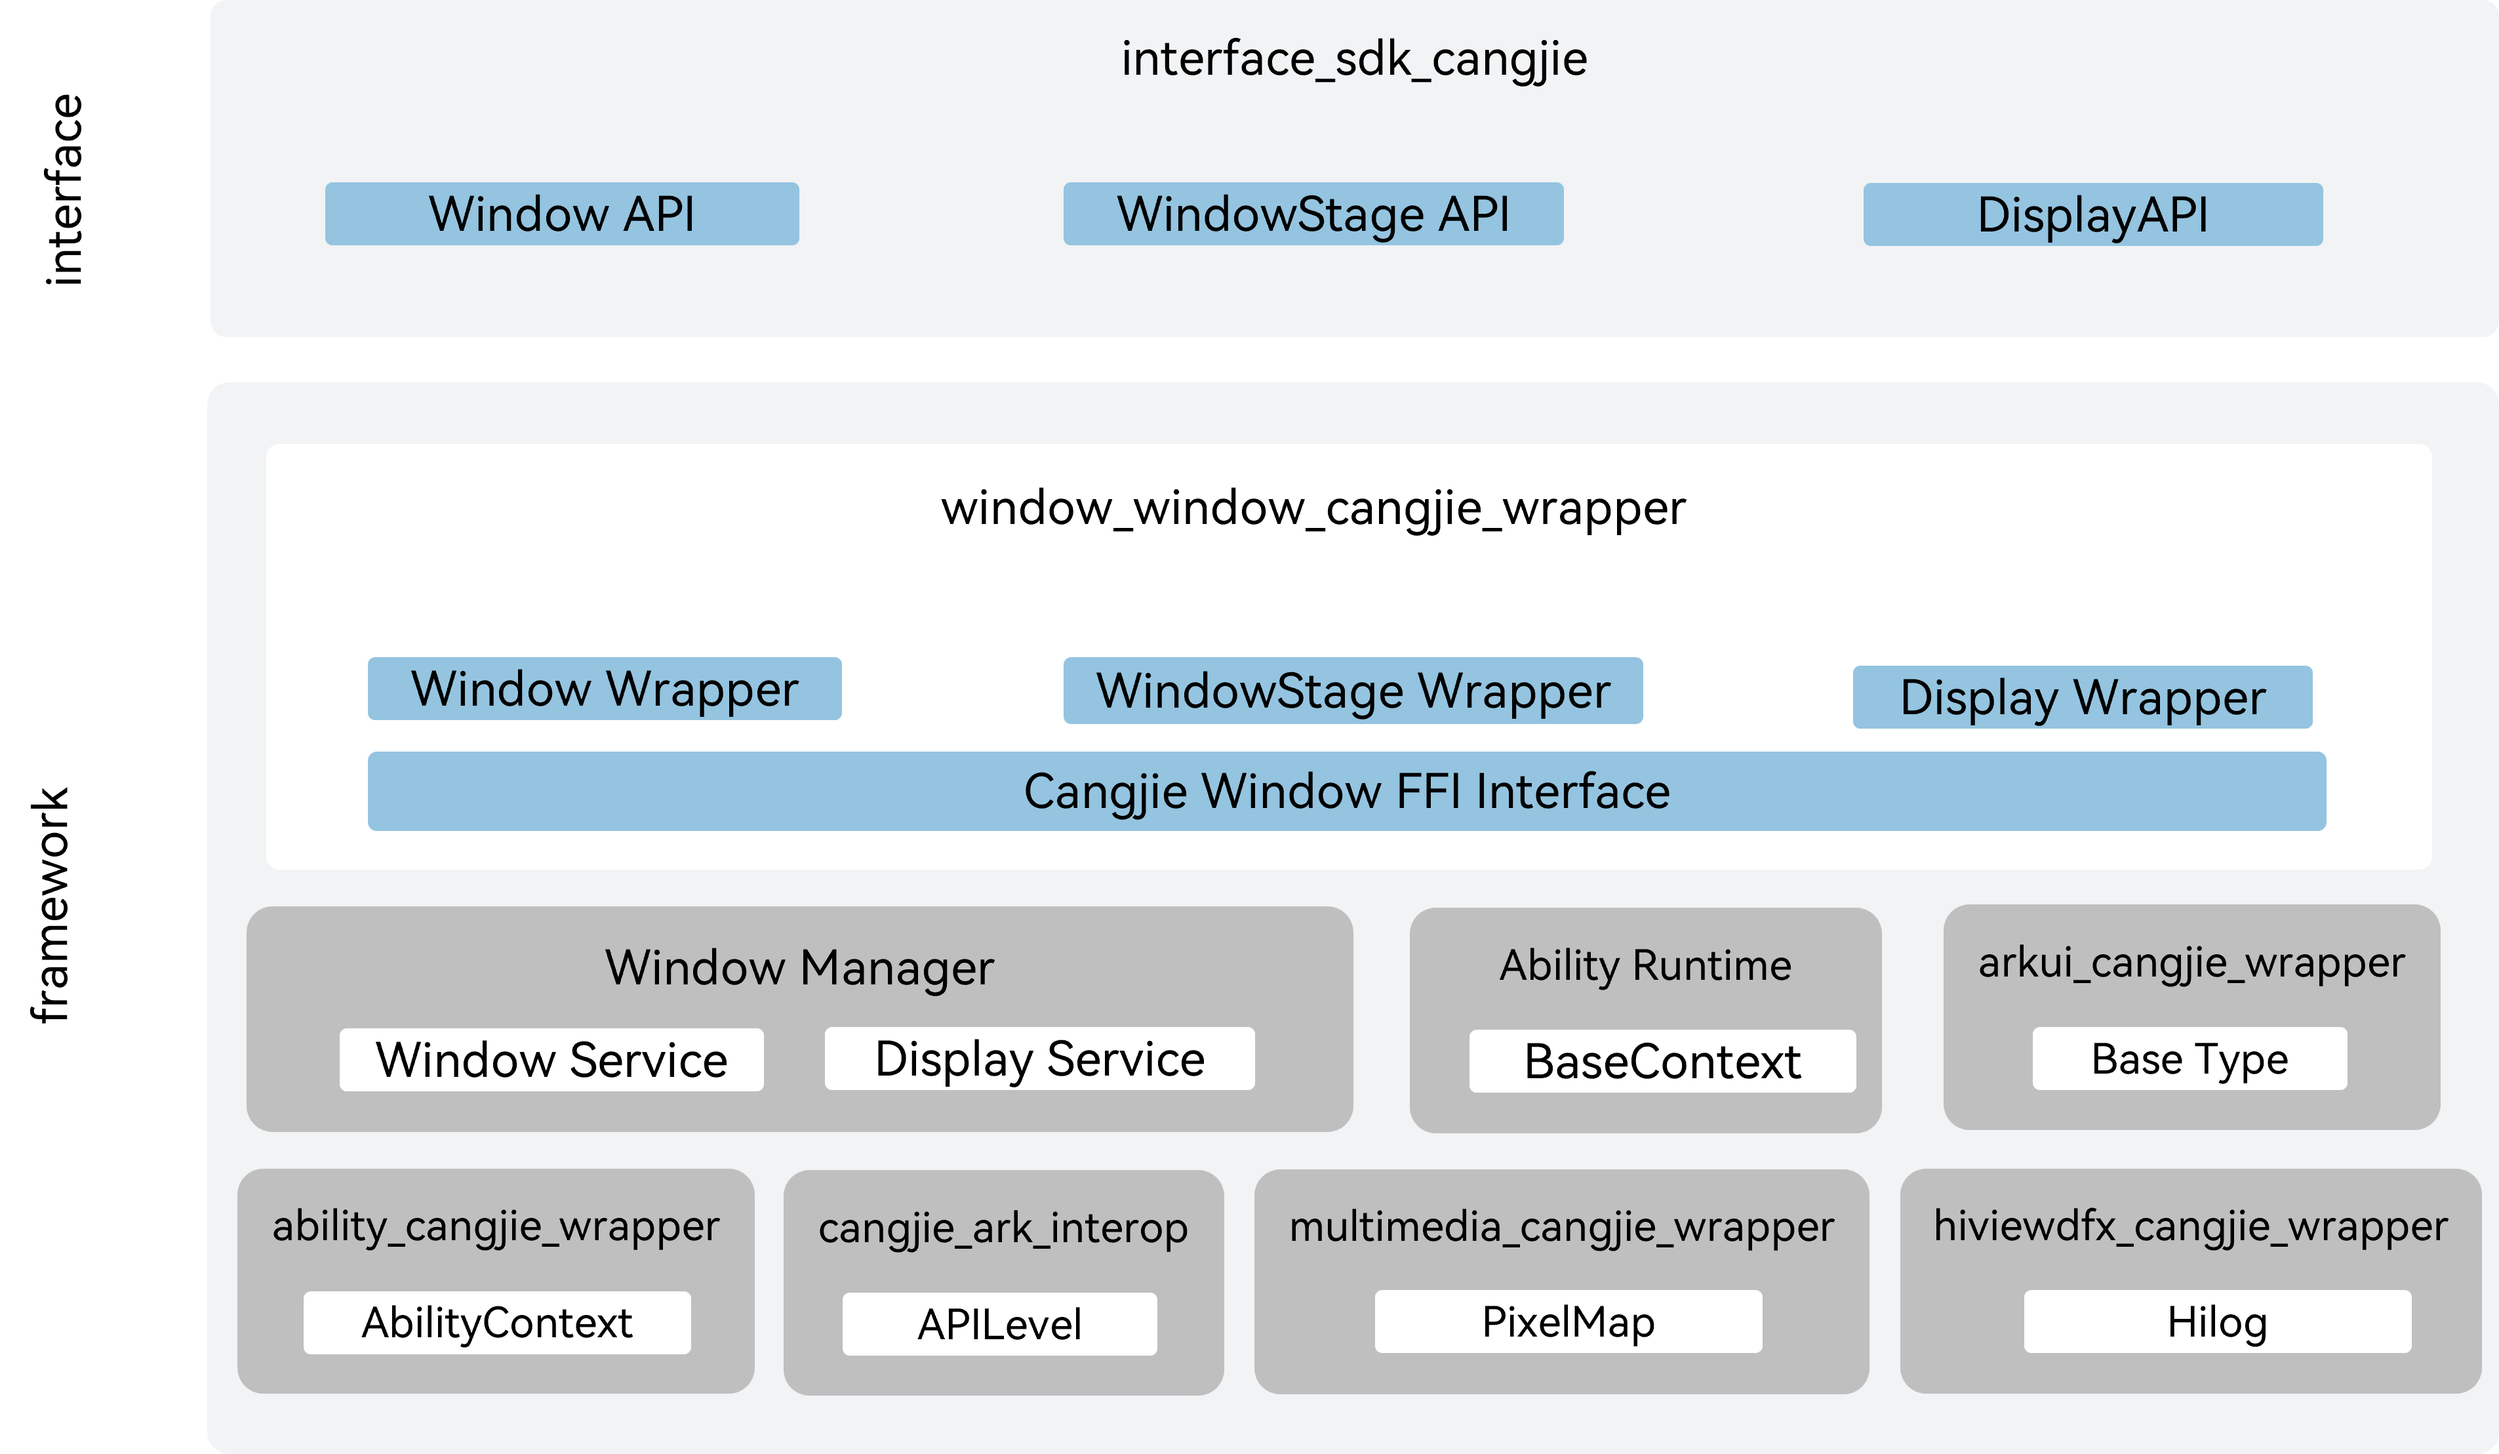
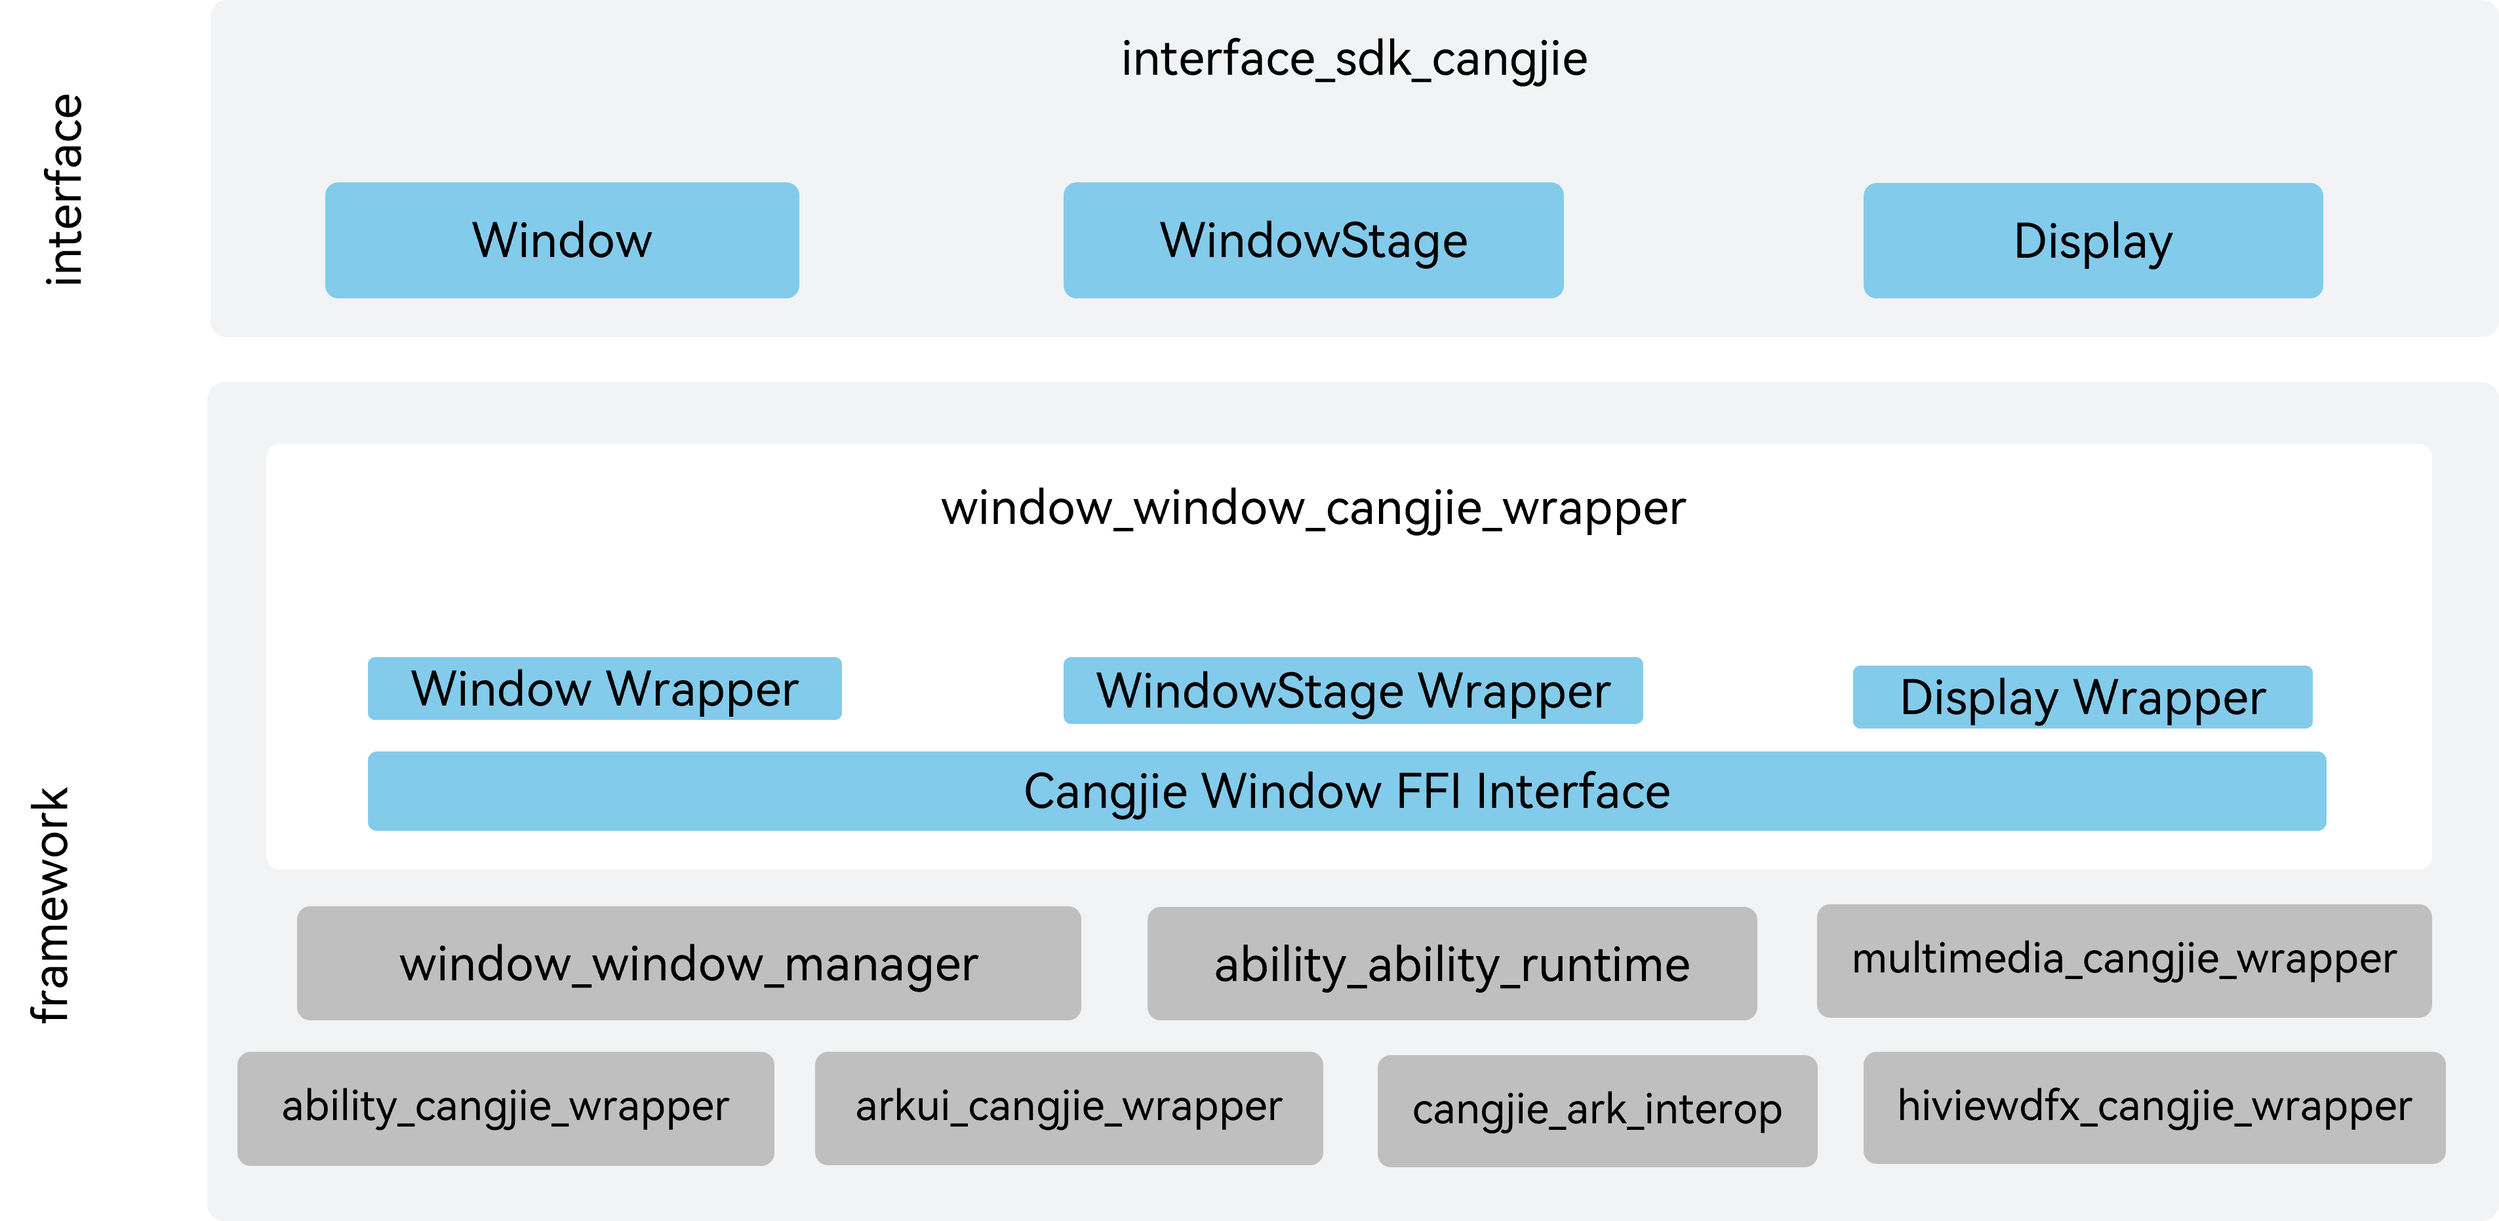
fix review comments

diff --git a/README_zh.md b/README_zh.md
@@ -1,15 +1,10 @@
 # 窗口仓颉接口<a name="ZH-CN_TOPIC_0000001076213364"></a>
 
--   [简介](#section15701932113019)
--   [目录](#section1791423143211)
--   [使用说明](#section171384529150)
--   [开发者文档](#section171384529152)
--   [参与贡献](#section171384529153)
--   [相关仓](#section171384529156)
-
 ## 简介<a name="section15701932113019"></a>
 
-窗口仓颉接口是在Openharmony上基于窗口子系统能力之上封装的仓颉API，提供了窗口管理和显示设备管理的基础能力。当前开放的窗口仓颉接口仅支持standard设备
+窗口仓颉接口提供了窗口管理和显示设备管理的基础能力，开发者使用仓颉开发应用时可以使用窗口仓颉接口进行窗口的创建、销毁、各属性设置。当前开放的窗口仓颉接口仅支持standard设备。
+
+## 系统架构
 
 其主要结构如下图所示：
 
@@ -17,20 +12,26 @@
 
 如架构图所示：
 
-- Window：当前窗口实例，窗口管理器管理的基本单元。
-- WindowStage：窗口管理器。管理各个基本窗口单元。
+接口层
+- Window：当前窗口实例，窗口管理器管理的基本单元，包括对当前窗口的创建、销毁、各属性设置。
+- WindowStage：窗口管理器，用于管理Window实例。
 - Display：屏幕属性提供管理显示设备的一些基础能力，包括获取默认显示设备的信息，获取所有显示设备的信息以及监听显示设备的插拔行为。
-- 仓颉窗口FFI接口定义：负责定义C语言互操作仓颉接口，用于实现仓颉窗口能力
+
+框架层
+- Window封装：仓颉封装实现窗口实例，通过仓颉C语言互操作对接到窗口子系统。
+- WindowStage封装：仓颉封装实现窗口管理器，通过仓颉C语言互操作对接到窗口子系统。
+- Display封装：仓颉封装实现屏幕属性管理能力，通过仓颉C语言互操作对接到窗口子系统。
+- 仓颉窗口FFI接口定义：负责定义C语言互操作仓颉接口，用于实现Window封装、WindowStage封装、Display封装和窗口子系统的对接。
 
 架构图中依赖部件引入说明：
 
-- 窗口管理部件：仓颉接口封装依赖窗口管理部件提供的窗口服务和显示设备服务
-- 元能力部件：依赖元能力部件提供的BaseContext查询能力
-- arkui_cangjie_wrapper：依赖ArkUI仓颉部件提供的基础类型
-- ability_cangjie_wrapper：依赖Ability仓颉部件提供获取AbilityContext接口
-- cangjie_ark_interop：依赖仓颉互操作部件提供的APILevel能力进行API管理
-- multimedia_cangjie_wrapper：依赖多媒体仓颉部件提供的image接口
-- hiviewdfx_cangjie_wrapper：依赖DFX仓颉部件提供的Hilog接口
+- window_window_manager：仓颉接口封装依赖窗口子系统提供的窗口服务和显示设备服务
+- ability_ability_runtime：依赖元能力子系统提供的BaseContext查询能力
+- arkui_cangjie_wrapper：依赖arkui_cangjie_wrapper提供的基础类型
+- ability_cangjie_wrapper：依赖ability_cangjie_wrapper提供获取AbilityContext接口
+- cangjie_ark_interop：依赖cangjie_ark_interop提供的APILevel能力进行API管理
+- multimedia_cangjie_wrapper：依赖multimedia_cangjie_wrapper提供的图像处理能力
+- hiviewdfx_cangjie_wrapper：依赖hiviewdfx_cangjie_wrapper提供的Hilog日志能力
 
 ## 目录<a name="section1791423143211"></a>
 ```
@@ -39,23 +40,27 @@ foundation/window/window_cangjie_wrapper/
 ├── ohos                              # 仓颉接口实现源码目录
 │   ├── display                       # 显示设备管理相关接口实现
 │   └── window                        # 窗口管理相关接口实现
-└── test                              # 测试用例存放目录
+├── test                              # 测试用例存放目录
+│   ├── display_test                  # display相关测试用例目录
+│   └── window_test                   # window相关测试用例目录
 ```
 
 ## 使用说明<a name="section171384529150"></a>
 
-窗口仓颉接口，目前提供窗口管理器，显示设备管理等API。
+窗口仓颉接口，目前提供窗口管理器，显示设备管理等接口。
 
 提供的能力范围包括：
-- Window接口：窗口实例，提供获取应用窗口实例的接口，相关接口参考[Window](https://gitcode.com/openharmony-sig/arkcompiler_cangjie_ark_interop/blob/master/doc/API_Reference/source_zh_cn/arkui-cj/cj-apis-window.md)。
+- Window接口：窗口实例，提供获取应用窗口实例的接口。
 - WindowStage接口：窗口管理器，提供管理各个窗口基本单元的接口。
 - Display接口：管理显示设备的能力，提供获取所有显示设备的信息以及监听显示设备的插拔行为的接口。
+
+## 约束
 
 与ArkTS相比，暂未提供以下能力：
 - Pipwindow：画中画能力。
 - Screenshot：屏幕截图能力。
 
-## 开发者文档<a name="section171384529152"></a>
+## 参考文档<a name="section171384529152"></a>
 
 [API文档](https://gitcode.com/openharmony-sig/arkcompiler_cangjie_ark_interop/blob/master/doc/API_Reference/source_zh_cn/arkui-cj/cj-apis-window.md)
 

diff --git a/README.md b/README.md
@@ -1,15 +1,11 @@
 # Window Cangjie Interface<a name="EN-US_TOPIC_0000001076213364"></a>
 
--   [Introduction](#section15701932113019)
--   [Directory Structure](#section1791423143211)
--   [When to Use](#section171384529150)
--   [Developer Document](#section171384529152)
--   [How to contribute](#section171384529153)
--   [Repositories Involved](#section1447164910172)
 
 ## Introduction<a name="section15701932113019"></a>
 
 The Window Manager subsystem provides basic capabilities of window and display management. Window Cangjie Interface is only available for standard devices.
+
+## System Architecture
 
 Framework architecture:
 
@@ -17,15 +13,28 @@ Framework architecture:
 
 As illustrated in the architecture:
 
-- Window: The current window instance, which is the fundamental unit managed by the window manager.
-- WindowStage: The window manager. It manages the various basic window units.
-- Display: Screen properties; provides basic capabilities for managing display devices. This includes obtaining information about the default display device, retrieving information for all display devices, and monitoring the connection and removal of display devices.
-- Cangjie Window FFI Interface: Responsible for defining the C-language interoperation Cangjie interfaces, used to implement Cangjie window capabilities.
+Interface Layer
+
+- Window: The current window instance, which is the basic unit managed by the window manager. It includes the creation, destruction, and configuration of various properties of the current window.
+
+- WindowStage: The window manager, used to manage Window instances.
+
+- Display: Manages screen properties and provides basic capabilities for handling display devices, including retrieving information about the default display device, obtaining information about all display devices, and monitoring the plugging and unplugging of display devices.
+
+Framework Layer
+
+- Window Wrapper: Implemented in Cangjie to encapsulate window instances, interfacing with the window subsystem via Cangjie's C language interoperation.
+
+- WindowStage Wrapper: Implemented in Cangjie to encapsulate the window manager, interfacing with the window subsystem via Cangjie's C language interoperation.
+
+- Display Wrapper: Implemented in Cangjie to encapsulate screen property management capabilities, interfacing with the window subsystem via Cangjie's C language interoperation.
+
+- Cangjie Window FFI Interface Definition: Defines the C language interoperation interfaces in Cangjie, enabling the integration of the Window Wrapper, WindowStage Wrapper, and Display Wrapper with the window subsystem.
 
 Dependency Component Introduction in the Architecture:
 
-- Window Management: The encapsulation of Cangjie interfaces relies on the window services and display device services provided by the Window Management.
-- Ability Runtime: It depends on the BaseContext query capability provided by Ability Runtime.
+- window_window_manager: The encapsulation of Cangjie interfaces relies on the window services and display device services provided by the Window Management.
+- ability_ability_runtime: It depends on the BaseContext query capability provided by Ability Runtime.
 - arkui_cangjie_wrapper: Relies on the basic types provided by arkui_cangjie_wrapper.
 - ability_cangjie_wrapper: Relies on the AbilityContext interface provided by ability_cangjie_wrapper.
 - cangjie_ark_interop: Relies on the API Level capability provided by the cangjie_ark_interop for API management.
@@ -52,10 +61,11 @@ The following features are provided:
 - WindowStage API: Manage window units.
 - Display API: manage display devices, obtain all display devices info and subscribe display devices
 
+## Limitation
+
 The following features are not provided yet:
 - Pipwindow: provides basic APIs for manipulating Picture in Picture (PiP)
 - Screenshot: provides the screen capture capability
-
 
 ## Developer Document<a name="section171384529152"></a>
 
